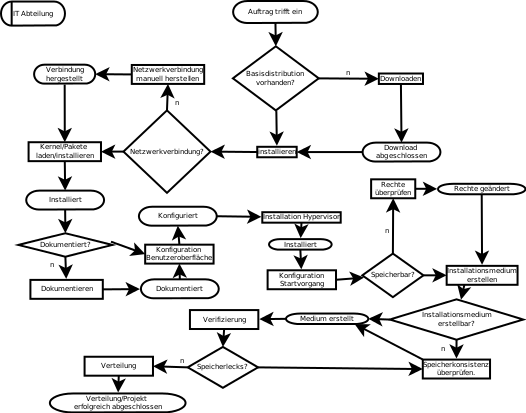
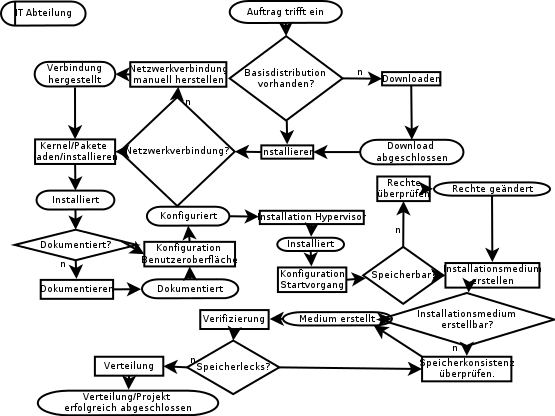
Increased font size of text inside last diagrams.

Changed region(s): [[0.0304, 0.0, 1.0, 1.0], [0.0, 0.0, 0.1825, 0.0872]]

diff --git a/Doc.md b/Doc.md
@@ -14,6 +14,7 @@
 [Kunde2]: https://raw.githubusercontent.com/Happy-Ferret/Virtasia/master/img/Kunde2.png?token=AB3yOiRliYd93wiB0EUG1fH60Dt_ovBdks5Uh_s6wA%3D%3D "Installation"
 [Kunde3]: https://raw.githubusercontent.com/Happy-Ferret/Virtasia/master/img/Kunde3.png?token=AB3yOnTBi6csaIScAklmHu4CvmnF6aAsks5Uh_3ywA%3D%3D "Installation"
 [Aufbau]: https://raw.githubusercontent.com/Happy-Ferret/Virtasia/master/img/Aufbau.png?token=AB3yOgauRfD5si1b0lhb7ebZwr97E6V3ks5Uh_s2wA%3D%3D "Aufbau"
+[Ablauf]:  https://raw.githubusercontent.com/Happy-Ferret/Virtasia/master/img/Projektablauf.png?token=AB3yOkbnfsUHKv5sznm7rtUi0q1879VLks5UiCyIwA%3D%3D "Projektablaufplan"
 
 ##### Thema
 Bereitstellung sicherer, wirtschaftlicher Betriebsumgebungen auf Basis eines Effizienzoptimierten, ∗nix basierten Hypervisors.
@@ -213,11 +214,19 @@ Auf Grund der deutlich niedrigeren Gesamtkosten und zu erwartenden Instandhaltun
 Um die Voraussetzung eines stabilen, offenen und sicheren Basissystems zu erfüllen, wird hierbei auf ein modifiziertes GNU/Linux zurückgegriffen.
 
 <div style="page-break-after: always;"></div>
-[Seite5]
+
 <a name="3"></a>
+
+#####3.4 Projektablaufplan
+
+![alt text][Ablauf]
+**Fig. 2:** *Projektablaufdiagram*
+
+<div style="page-break-after: always;"></div>
+
 ####4. Design
 ![alt text][img1]
-**Fig. 2:** *Simplifizierte Darstellung der Virtasia Architektur.*
+**Fig. 3:** *Simplifizierte Darstellung der Virtasia Architektur.*
 
 Wie dem obenstehenden Schaubild zu entnehmen ist, handelt es sich bei Virtasia
 um eine Mischform. Die grundlegende Architektur eines Typ 2 Hypervisors 
@@ -285,7 +294,7 @@ Anschließend wird die erzeugte .iso Datei auf einen USB Stick kopiert und, auf 
 Dies schließt den Implementierungsprozess ab.
 
 ![alt text][img2]
-**Fig. 3:** *Die Konfiguration des Kernels findet bequem über eine grafische ncurses Oberfläche statt.*
+**Fig. 4:** *Die Konfiguration des Kernels findet bequem über eine grafische ncurses Oberfläche statt.*
 
 <div style="page-break-after: always;"></div>
 [Seite8]
@@ -297,7 +306,7 @@ Zur Verifizierung wird das, im vorherigen Schritt erzeugte, .iso Abbild auf eine
 Um die Funktionsfähigkeit sicherzustellen, wird Ubuntu 14.10 als Gastsystem installiert und ausgiebig getestet. 
 Audio, Grafik und generelle Performanz werden durch das Abspielen einiger Youtube Videos beim gleichzeitigen Ausführen von glxgears getestet. Da die Hardware derer der Entwicklungsmaschine entspricht, fällt die Verifizierung äußerst zufriedenstellend aus.
 
-![alt text][img3] **Fig. 4:** *Intensiver Test eines Ubuntu Gastsystems mit WindowMaker als Desktop*
+![alt text][img3] **Fig. 5:** *Intensiver Test eines Ubuntu Gastsystems mit WindowMaker als Desktop*
 
 ####7. Abnahme
 
@@ -352,7 +361,7 @@ Die Umsetzung hat mir tiefere Einblicke in die Funktionsweise Unixoider Betriebs
 Erfreulich ist, dass ,die zum täglichen Unterricht verwendeten, Unterrichtsstationen der Bildungsakademie Waldshut nun alle nötigen Sicherheitsstandards erfüllen und sich relativ unkompliziert administrieren lassen. 
 
 ![alt text][img4]
-**Fig. 5:** *Die Virtasia Oberfläche in Aktion*
+**Fig. 6:** *Die Virtasia Oberfläche in Aktion*
 
 <div style="page-break-after: always;"></div>
 [Seite11]
